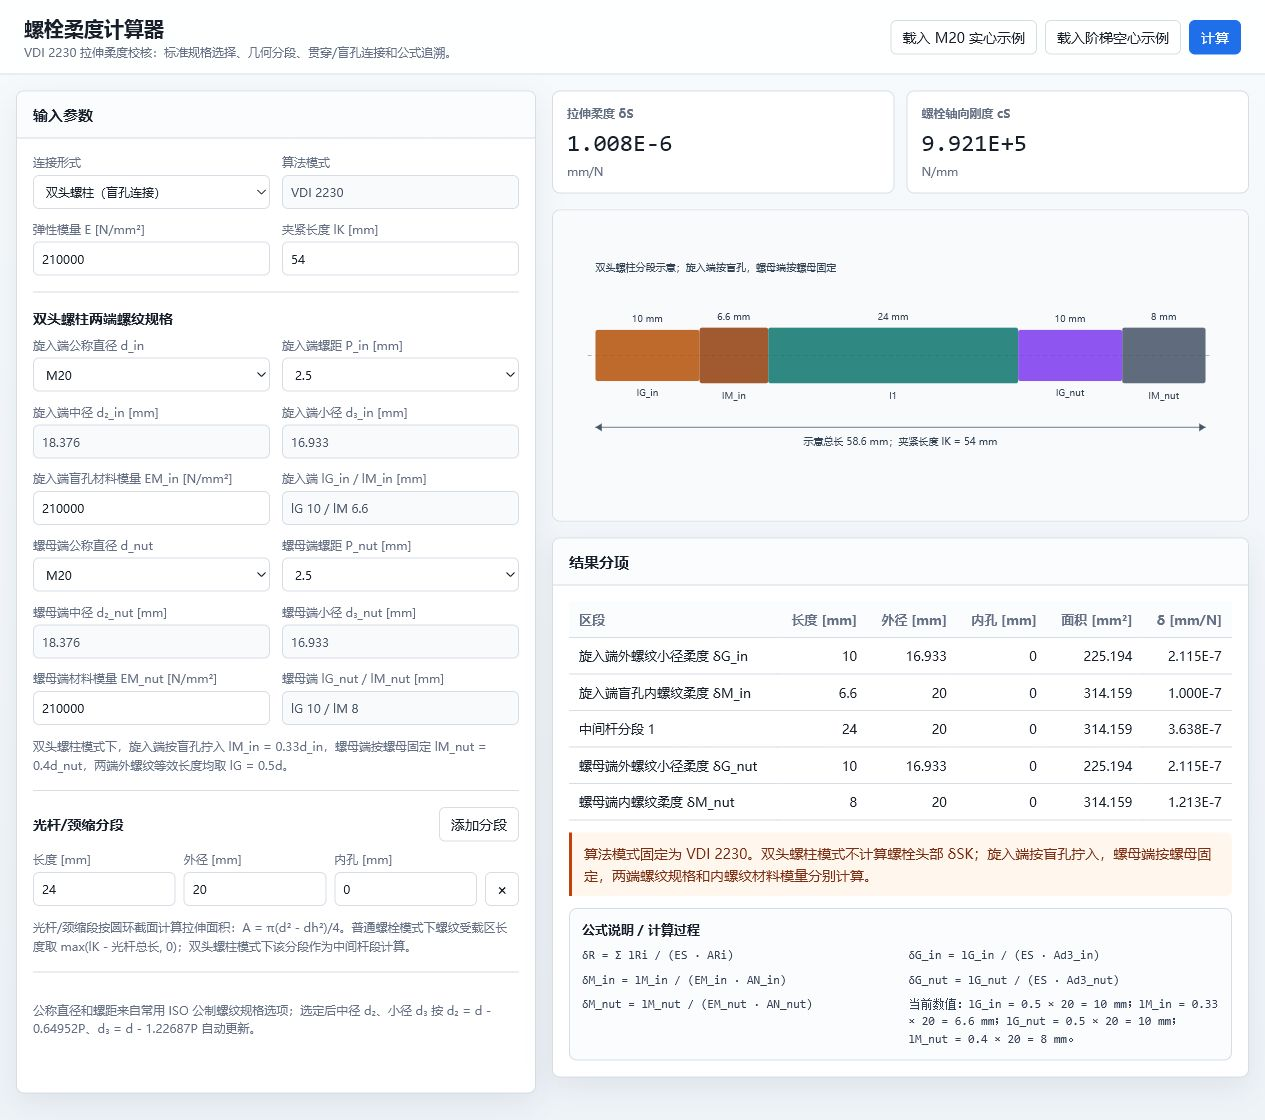
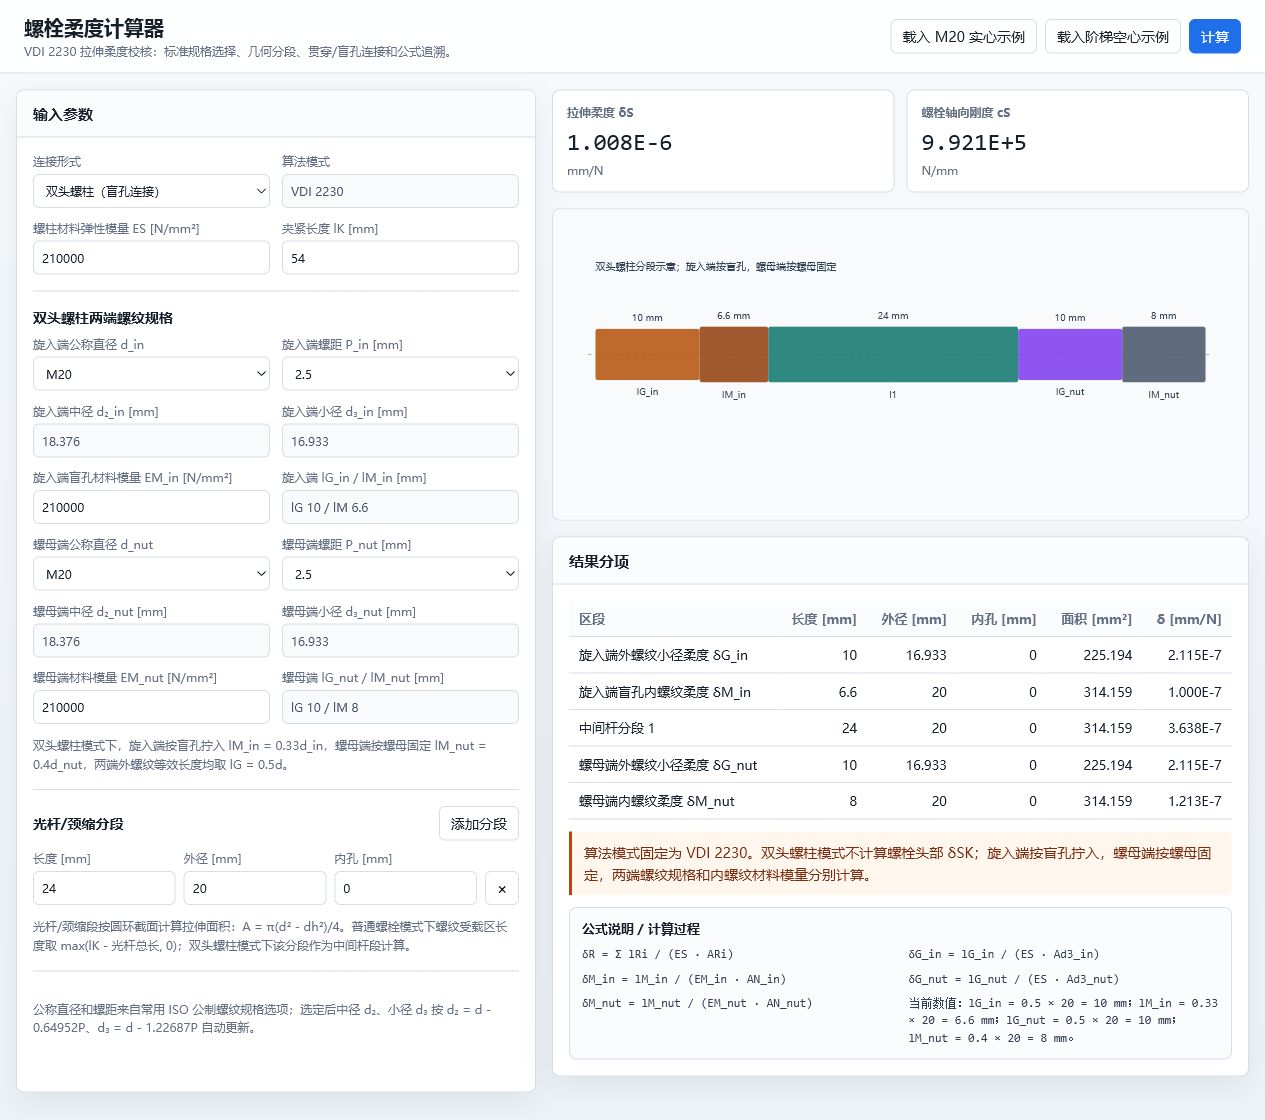
Refine diagram labels and stud modulus copy

diff --git a/index.html b/index.html
@@ -248,7 +248,7 @@
       display: block;
       width: 100%;
       height: auto;
-      max-height: 360px;
+      max-height: 180px;
       object-fit: contain;
       background: #fff;
     }
@@ -394,7 +394,7 @@
               <option value="internal">内六角螺栓头</option>
             </select>
           </label>
-          <label>弹性模量 E [N/mm²]
+          <label><span id="elasticModulusLabel">弹性模量 E [N/mm²]</span>
             <input id="elasticModulus" type="text" inputmode="decimal" value="210000">
           </label>
           <label class="ordinary-only">内螺纹材料模量 EM [N/mm²]
@@ -699,6 +699,7 @@
       document.querySelectorAll(".ordinary-only").forEach(el => el.classList.toggle("hidden", stud));
       document.querySelectorAll(".bolt-only").forEach(el => el.classList.toggle("hidden", stud));
       $("studThreadSection").classList.toggle("hidden", !stud);
+      $("elasticModulusLabel").textContent = stud ? "螺柱材料弹性模量 ES [N/mm²]" : "弹性模量 E [N/mm²]";
       calculate();
     }
 
@@ -1066,9 +1067,6 @@
         x += w;
       });
 
-      chunks.push(`<line x1="${x0}" y1="235" x2="${x0 + usable}" y2="235" stroke="#475569"/>`);
-      chunks.push(`<path d="M${x0} 235 l8 -5 v10 zM${x0 + usable} 235 l-8 -5 v10 z" fill="#475569"/>`);
-      chunks.push(`<text x="${x0 + usable / 2}" y="258" text-anchor="middle" font-size="13" fill="#334155">示意总长 ${fmt(totalLength, 2)} mm；夹紧长度 lK = ${fmt(model.lK, 2)} mm</text>`);
       chunks.push(`<text x="55" y="32" font-size="13" fill="#334155">计算分段示意；hh 为几何示意尺寸，lSK 为等效计算长度</text>`);
       svg.innerHTML = chunks.join("");
     }
@@ -1107,9 +1105,6 @@
         x += w;
       });
 
-      chunks.push(`<line x1="${x0}" y1="235" x2="${x0 + usable}" y2="235" stroke="#475569"/>`);
-      chunks.push(`<path d="M${x0} 235 l8 -5 v10 zM${x0 + usable} 235 l-8 -5 v10 z" fill="#475569"/>`);
-      chunks.push(`<text x="${x0 + usable / 2}" y="258" text-anchor="middle" font-size="13" fill="#334155">示意总长 ${fmt(totalLength, 2)} mm；夹紧长度 lK = ${fmt(model.lK, 2)} mm</text>`);
       chunks.push(`<text x="55" y="32" font-size="13" fill="#334155">双头螺柱分段示意；旋入端按盲孔，螺母端按螺母固定</text>`);
       svg.innerHTML = chunks.join("");
     }